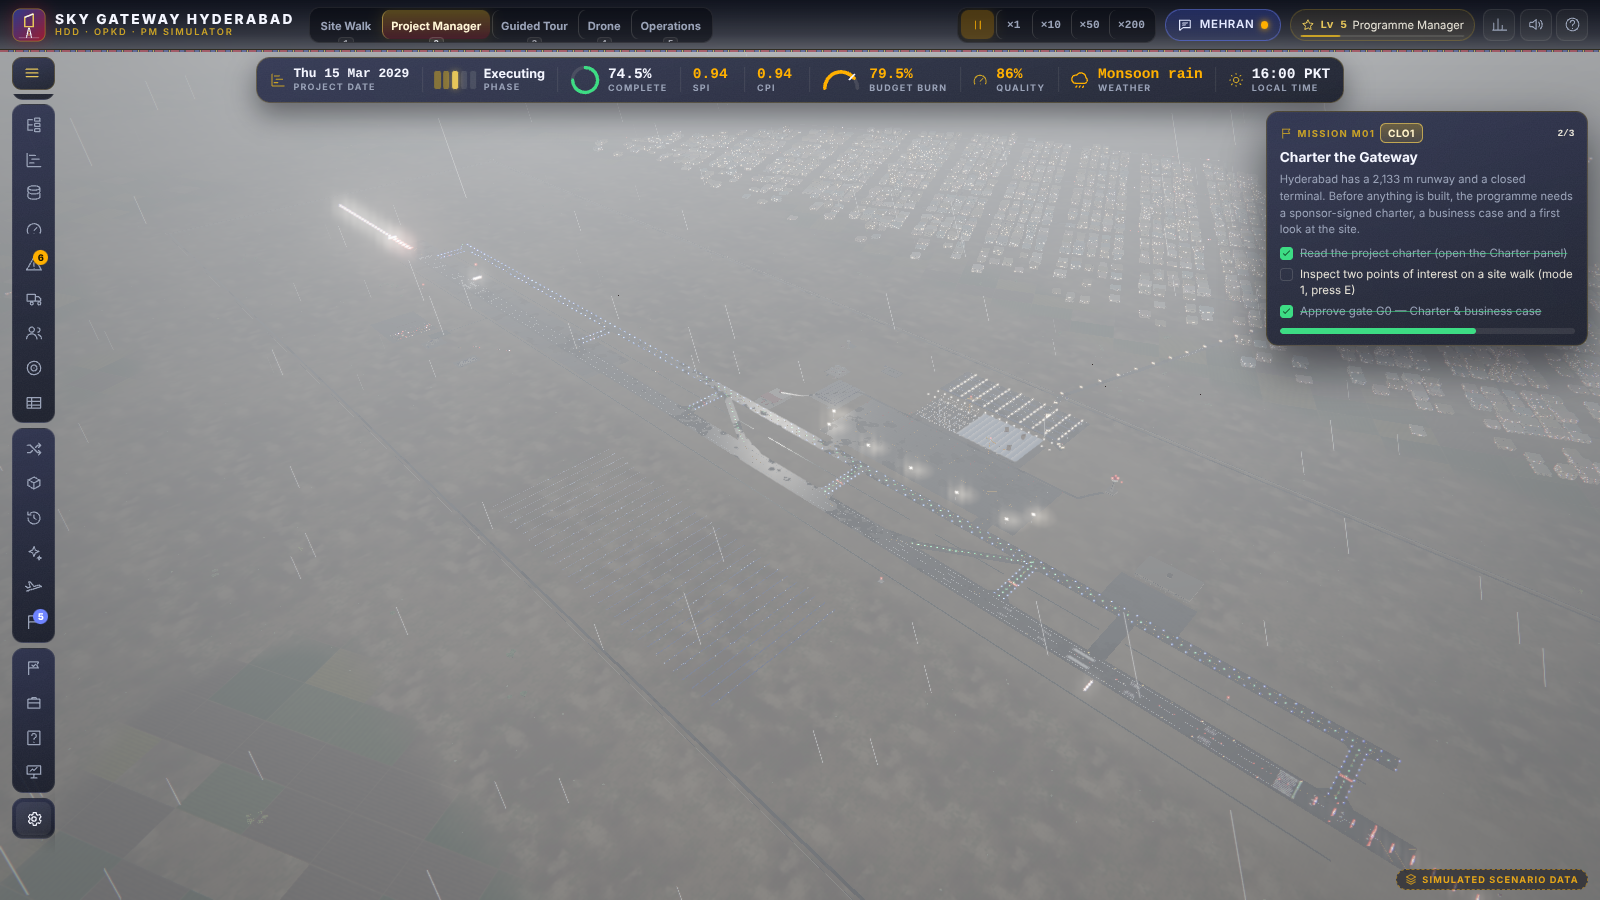
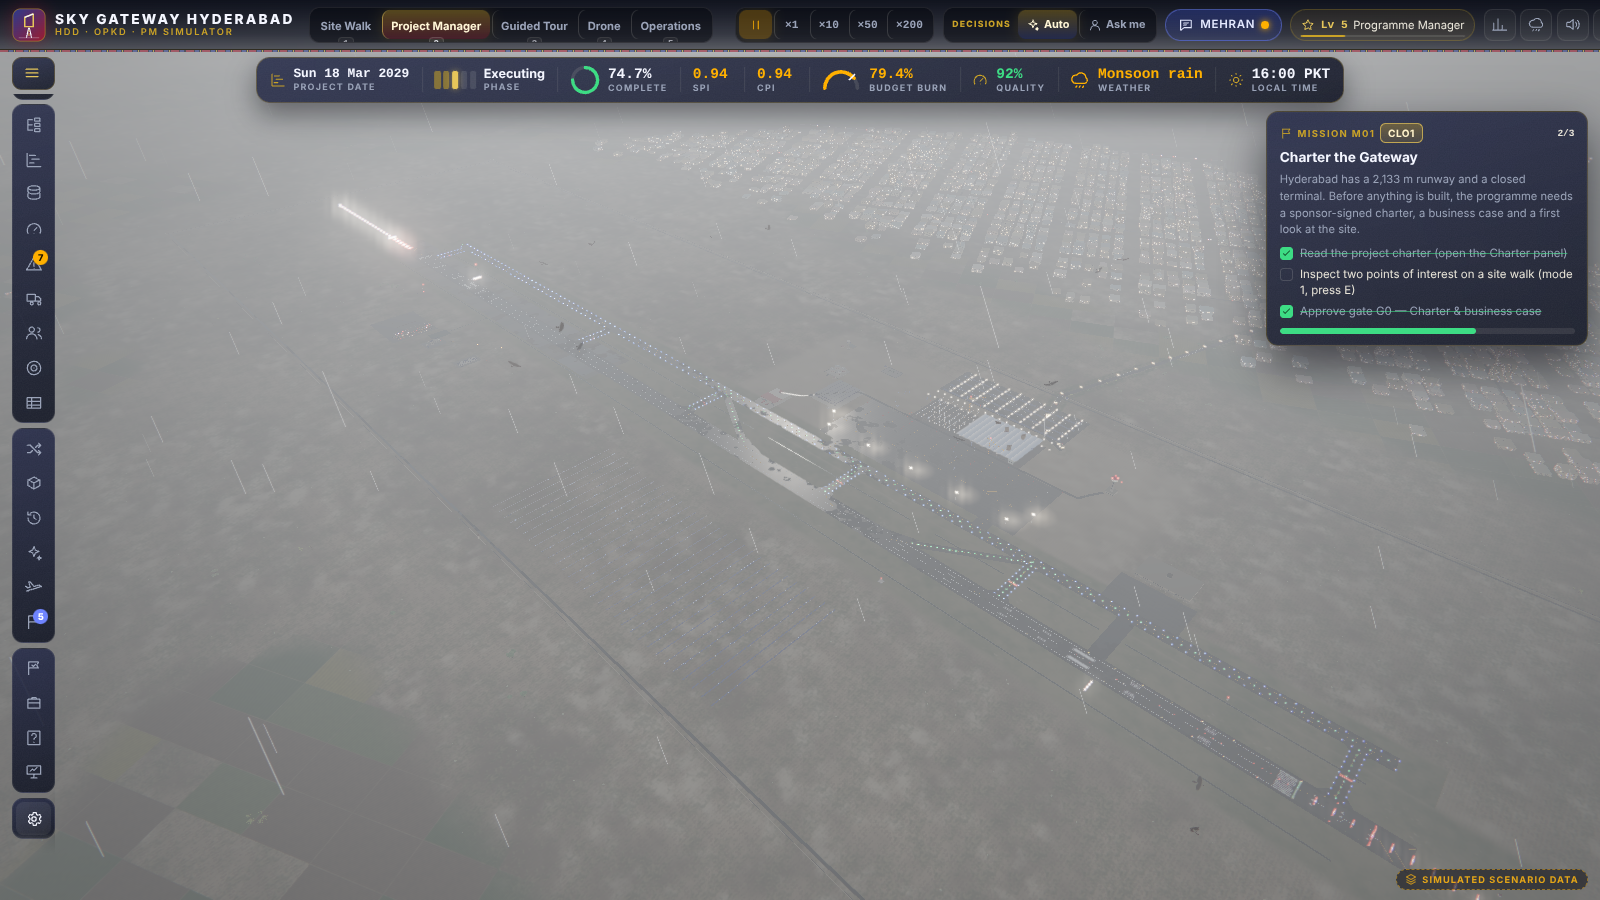
Test report: second-round changes verified (80/80 unit, 34/34 e2e)
Claude-Session: https://claude.ai/code/session_01TiBgiAFk5doSUAYjPQz2i8

Changed region(s): [[0.4375, 0.0, 0.7188, 0.0933], [0.8438, 0.0, 0.9062, 0.0311], [0.75, 0.0, 0.7812, 0.0311]]

diff --git a/docs/TEST_REPORT.md b/docs/TEST_REPORT.md
@@ -72,3 +72,18 @@ tables (three.js names shadowing DOM globals — the bundler now scopes three.js
 
 Remaining visual notes: the terminal interior is bright and hazy in daylight; airfield floodlight pools are large at
 night; the full-intensity dust storm hides most of the airfield (by design — visibility 20 %).
+
+## Update — user-feedback round (decisions, weather control, sound, sky, terrain, passenger journey)
+
+Re-run after the second round of changes: `npm test` **80 / 80**; e2e **34 / 34** (745 simulated days in 51 s at ×200,
+21 decision events auto-resolved without blocking, zero console errors, no network requests).
+
+| Change | Verification |
+|---|---|
+| Decisions auto-pick the best option by default; Auto / Ask-me switch; "Choose best for me"; none before day 20 | e2e decision count; `tests/pm/game.test.js` (2 new tests) |
+| HUD weather & time-of-day popover with manual override and Auto | screenshot review; e2e weather scenes |
+| Calmer audio (0.35 master, fade-in, low-passed beds, rare quiet ATC), procedural birdsong | headless node-count checks (flat at 84, voice cap 28); not listened to by a human |
+| Cumulus/cirrus clouds, visible bird flocks, textured sand, grass verges, tufts, roadside trees | screenshot review |
+| Passenger journey (J): sliding doors, robust E interaction, check-in with boarding pass, passport, security, gate, jet bridge, seat, ~3-minute seated flight | QA hooks `journey()`, `journeyFlight()`; screenshots of every step and flight phase |
+| Fix: height-fog NaN for high cameras (black blocks in drone and cabin views) | drone at 700 m and in-flight screenshots clean |
+| Fix: journey overlay swallowed clicks on the dashboard rail | e2e "every rail button clickable" 25/25 |
